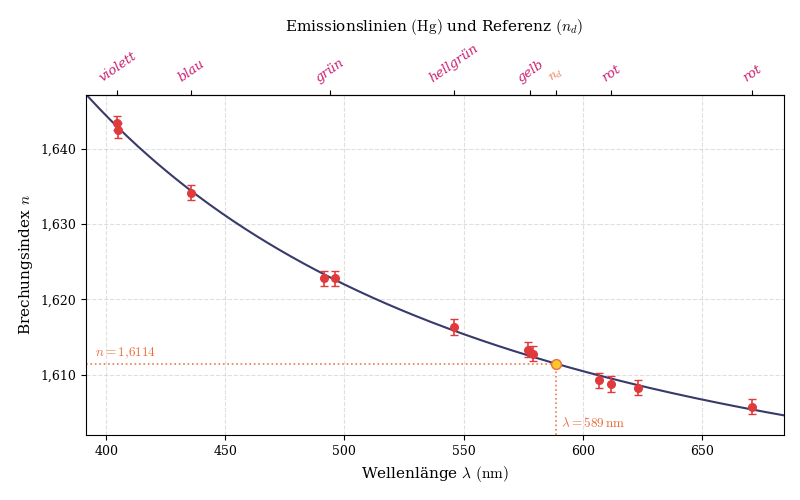
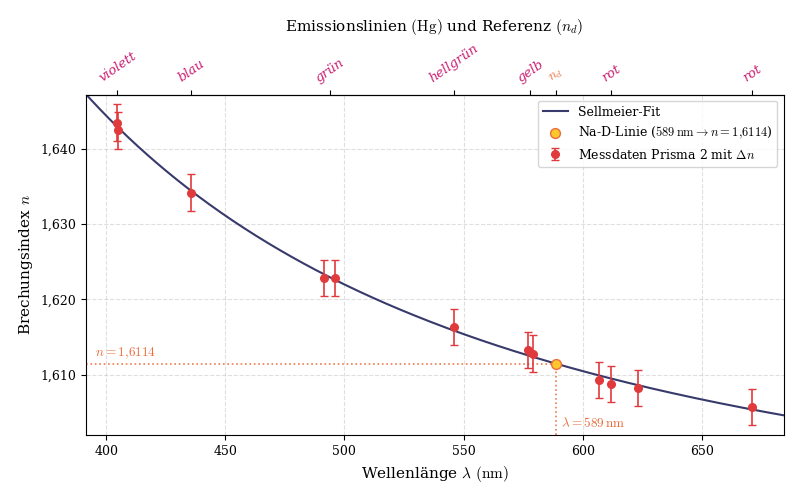
proper error propagation using partial derivative

diff --git a/O20/ablenkung_analyse.py b/O20/ablenkung_analyse.py
@@ -21,12 +21,14 @@ lookup_table = {
         "lambdas_nm": np.array([404.7, 435.8, 491.6, 546.1, 577.0, 623.4]),
         "top_ticks": [404.7, 435.8, 491.6, 546.1, 577.0, 589.0, 623.4],
         "top_labels": ["violett", "blau", "grün", "hellgrün", "gelb", r"$n_d$", "rot"],
+        "number": 1,
     },
     "ablenkung_prisma_2": {
         "phi_deg": 60.55, # (261.7 - 140.6)/2
         "lambdas_nm": None,
         "top_ticks": [404.75, 435.8, 493.8, 546.1, 578.05, 589.0, 612.0, 671.0],
         "top_labels": ["violett", "blau", "grün", "hellgrün", "gelb", r"$n_d$", "rot", "rot"],
+        "number": 2
     },
 }
 
@@ -76,8 +78,18 @@ for filename, config in lookup_table.items():
 
     delta_delta_rad = np.radians(DELTA_ANGLE)
 
-    dn_ddelta = np.cos((delta_rad + phi_rad) / 2.0) / (2.0 * np.sin(phi_rad / 2.0))
-    n_err = np.abs(dn_ddelta) * delta_delta_rad
+    # error propagation using partial derivative
+    delta_delta_rad = np.radians(DELTA_ANGLE)
+    delta_phi_rad = np.radians(DELTA_ANGLE)
+
+    dn_ddelta = np.cos((delta_rad + phi_rad) / 2.0) / (
+            2.0 * np.sin(phi_rad / 2.0)
+    )
+    dn_dphi = -np.sin(delta_rad / 2.0) / (2.0 * (np.sin(phi_rad / 2.0) ** 2))
+
+    n_err = (np.abs(dn_ddelta) * delta_delta_rad) + (
+            np.abs(dn_dphi) * delta_phi_rad
+    )
 
     popt, pcov = curve_fit(sellmeier, lambdas_um, n_measured, p0=[1.1, 0.01])
     B_fit, C_fit = popt
@@ -98,7 +110,7 @@ for filename, config in lookup_table.items():
         color=BLUE,
         linestyle="-",
         linewidth=1.5,
-        label=f"Sellmeier-Fit ($B={B_fit:.4f}, C={C_fit:.5f}\\,\\mu\\mathrm{{m}}^2$)",
+        label=f"Sellmeier-Fit",
         zorder=2,
     )
 
@@ -112,7 +124,7 @@ for filename, config in lookup_table.items():
         elinewidth=1.2,
         capsize=3,
         markersize=5.5,
-        label="Messdaten Prisma 1 mit $\\Delta n$",
+        label=f"Messdaten Prisma {config["number"]} mit $\\Delta n$",
         zorder=3,
     )
 
@@ -205,6 +217,7 @@ for filename, config in lookup_table.items():
     ax.set_ylabel(r"Brechungsindex $n$")
 
     ax.grid(True, which="both", linestyle="--", alpha=0.4)
+    ax.legend(loc="best")
 
     plt.tight_layout()
     plt.savefig(f"data/out/{filename}.pdf")
@@ -220,5 +233,5 @@ for filename, config in lookup_table.items():
             df["Farbe"], lambdas_nm, n_measured, n_err
     ):
         print(
-            f"  {str(f_raw):10s} ({l:5.1f} nm): n = {n_val:.4f} +- {dn_val:.4f}"
+            f"  {str(f_raw):10s} ({l:5.1f} nm): n = {n_val:.4f} +- {dn_val:.5f}"
         )